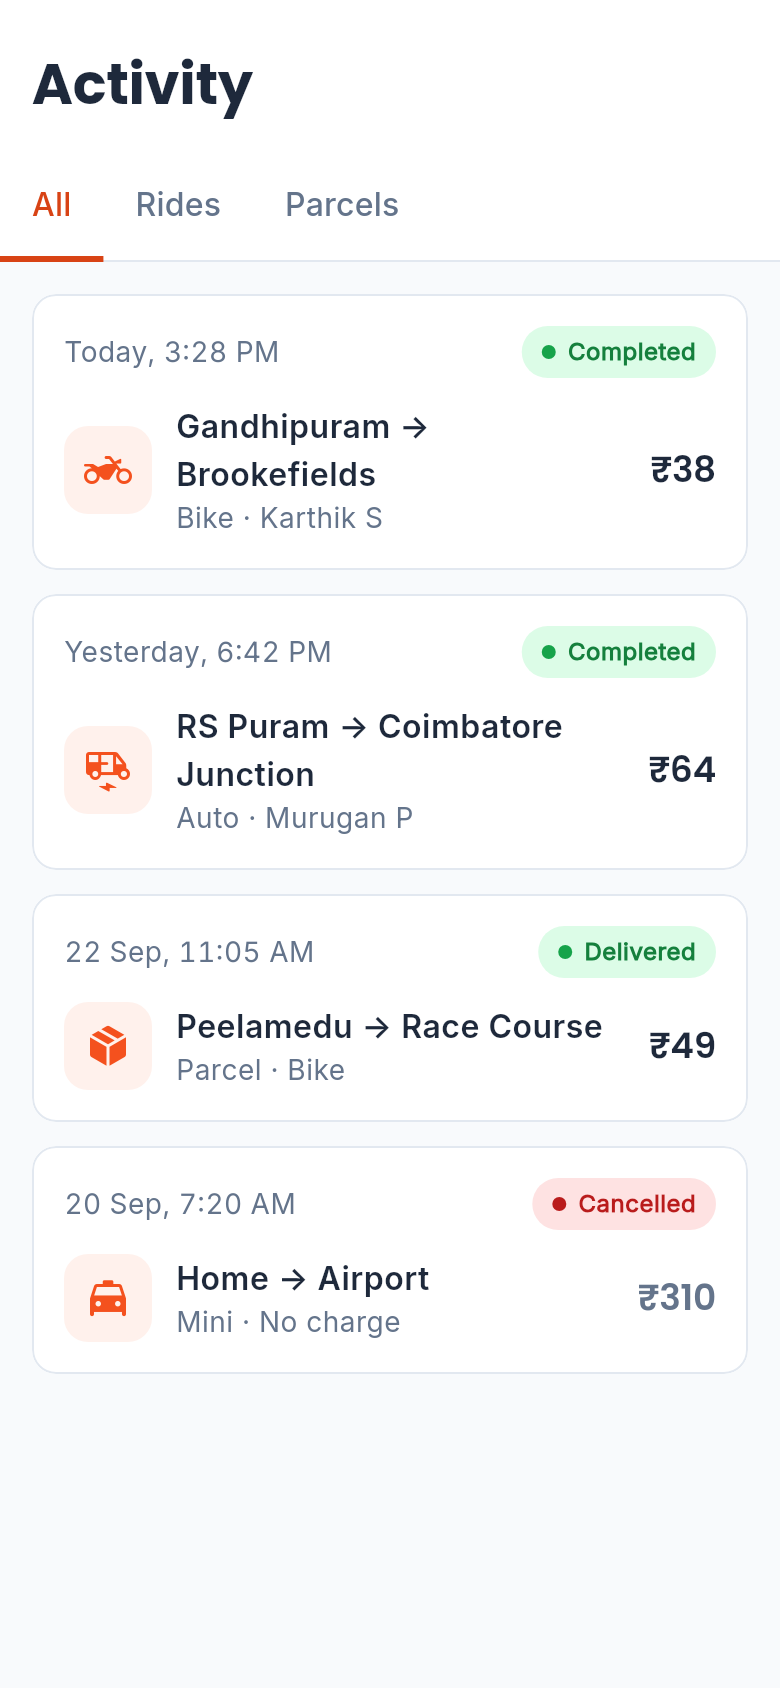
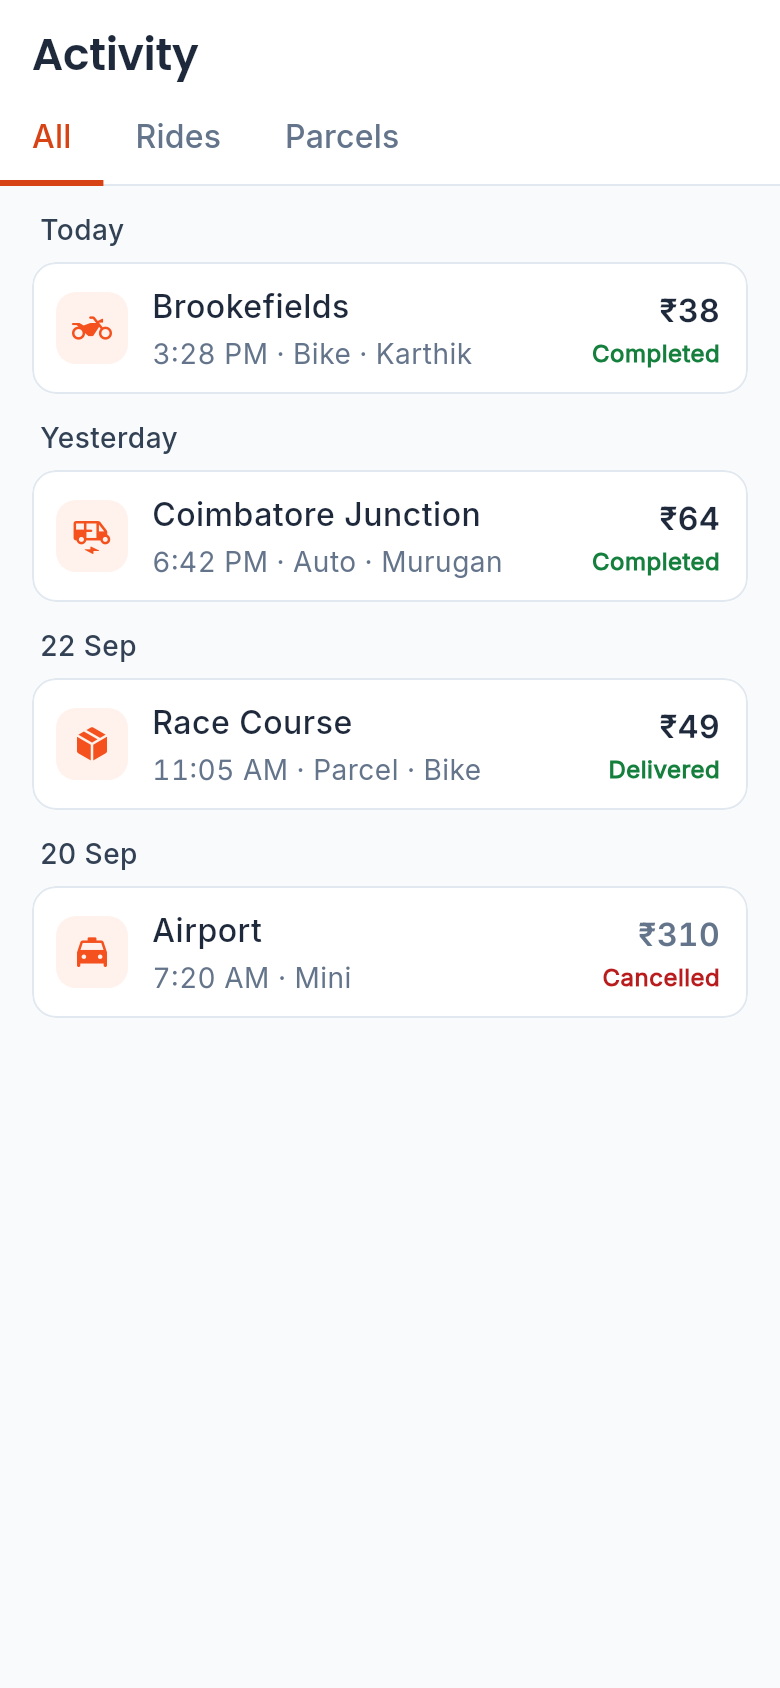
fix(passenger): Activity shows one compact card per trip under day headers
The Activity list put every trip in one big card with tall rows, so a phone
showed only four. Each trip is now its own two-line card (where it went,
the time and vehicle, the fare with its status) under "Today", "Yesterday",
"30 Sep" headers; the header and tabs are tighter. TripHistoryRow /
TripRowsGroup live in activity/widgets/trip_rows.dart so the parcel home's
Recent list can share them.

Trip details (P-22) fits its map to the route instead of guessing a zoom
from the distance, which cut the pins off at the card's edges.

diff --git a/apps/passenger/lib/features/activity/widgets/trip_rows.dart b/apps/passenger/lib/features/activity/widgets/trip_rows.dart
@@ -1,0 +1,142 @@
+import 'package:flutter/material.dart';
+import 'package:go_router/go_router.dart';
+import 'package:tamiltaxi_data/tamiltaxi_data.dart';
+import 'package:tamiltaxi_ui/tamiltaxi_ui.dart';
+
+import '../../../router/routes.dart';
+
+/// A trip's status for lists and details: the pill / text kind and its word.
+(StatusKind, String) tripStatusOf(Trip trip) => switch (trip.status) {
+      TripStatus.completed => (StatusKind.completed, 'Completed'),
+      TripStatus.delivered => (StatusKind.delivered, 'Delivered'),
+      TripStatus.cancelled => (StatusKind.cancelled, 'Cancelled'),
+      _ => (StatusKind.inProgress, 'In progress'),
+    };
+
+/// One past trip in a list, two lines (~60 dp, so a phone shows ten or more): the icon, where it went (the pickup is
+/// usually "Current location"; P-22 has both), when and with what, and on the right the fare with its status under
+/// it. Tap: trip details (P-22).
+class TripHistoryRow extends StatelessWidget {
+  const TripHistoryRow({super.key, required this.trip, this.timeOnly = false});
+  final Trip trip;
+
+  /// Under a day header: the time alone ("10:23 AM"), not the date.
+  final bool timeOnly;
+
+  static IconData iconOf(Trip trip) =>
+      trip.isShifting ? Symbols.home_rounded : (trip.isParcel ? Symbols.package_2_rounded : trip.vehicle.icon);
+
+  @override
+  Widget build(BuildContext context) {
+    final t = context.type;
+    final (kind, label) = tripStatusOf(trip);
+    final cancelled = trip.status == TripStatus.cancelled;
+    final what = trip.isShifting
+        ? 'Packers & Movers'
+        : trip.isParcel
+            ? 'Parcel · ${trip.vehicle.label}'
+            : '${trip.vehicle.label}${!cancelled && trip.driver != null ? ' · ${trip.driver!.firstName}' : ''}';
+    final statusColor = switch (kind) {
+      StatusKind.completed || StatusKind.delivered => TtColors.successText,
+      StatusKind.cancelled => TtColors.error,
+      _ => TtColors.coral600,
+    };
+    return Semantics(
+      button: true,
+      label: '${trip.fromLabel} to ${trip.toLabel}, ${formatRelativeDay(trip.startedAt, withTime: true)}, '
+          '${formatInr(trip.fare)}, $label. Open trip details',
+      excludeSemantics: true,
+      child: InkWell(
+        onTap: () => context.push(Routes.tripDetails(trip.id)),
+        child: Padding(
+          padding: const EdgeInsets.fromLTRB(12, 10, 14, 10),
+          child: Row(
+            children: [
+              Container(
+                width: 36,
+                height: 36,
+                decoration: const BoxDecoration(color: TtColors.coral50, borderRadius: BorderRadius.all(Radius.circular(10))),
+                child: Icon(iconOf(trip), color: TtColors.coral500, fill: 1, size: 20),
+              ),
+              const SizedBox(width: 12),
+              Expanded(
+                child: Column(
+                  crossAxisAlignment: CrossAxisAlignment.start,
+                  children: [
+                    Text(trip.toLabel,
+                        style: t.bodyMedium.copyWith(fontWeight: FontWeight.w600), maxLines: 1, overflow: TextOverflow.ellipsis),
+                    const SizedBox(height: 2),
+                    Text(
+                      '${timeOnly ? formatTime(trip.startedAt) : formatRelativeDay(trip.startedAt, withTime: true)} · $what',
+                      style: TtTextStyles.tabular(t.bodySmall.copyWith(color: TtColors.navy500)),
+                      maxLines: 1,
+                      overflow: TextOverflow.ellipsis,
+                    ),
+                  ],
+                ),
+              ),
+              const SizedBox(width: 10),
+              Column(
+                crossAxisAlignment: CrossAxisAlignment.end,
+                children: [
+                  Text(
+                    formatInr(trip.fare),
+                    style: TtTextStyles.tabular(t.bodySemibold.copyWith(color: cancelled ? TtColors.navy500 : TtColors.navy900)),
+                  ),
+                  const SizedBox(height: 2),
+                  Text(label, style: t.caption.copyWith(color: statusColor, fontWeight: FontWeight.w600)),
+                ],
+              ),
+            ],
+          ),
+        ),
+      ),
+    );
+  }
+}
+
+/// "Today", "Yesterday", "30 Sep" (and the year when it isn't this one): a day header in a trip list.
+String tripDayLabel(DateTime d, {DateTime? now}) {
+  final today = now == null ? TtClock.today : DateTime(now.year, now.month, now.day);
+  final day = DateTime(d.year, d.month, d.day);
+  final diff = today.difference(day).inDays;
+  if (diff == 0) return 'Today';
+  if (diff == 1) return 'Yesterday';
+  return d.year == today.year ? formatShortDate(d) : formatDate(d);
+}
+
+/// Each trip in its own compact card (8 dp apart). [byDay]: under day headers ("Today", "Yesterday", "30 Sep"),
+/// the cards then showing the time alone.
+class TripRowsGroup extends StatelessWidget {
+  const TripRowsGroup({super.key, required this.trips, this.byDay = false});
+  final List<Trip> trips;
+  final bool byDay;
+
+  Widget _card(Trip trip) => Material(
+        color: TtColors.surface,
+        shape: RoundedRectangleBorder(borderRadius: TtRadii.cardRadius, side: const BorderSide(color: TtColors.divider)),
+        clipBehavior: Clip.antiAlias,
+        child: TripHistoryRow(trip: trip, timeOnly: byDay),
+      );
+
+  @override
+  Widget build(BuildContext context) {
+    final t = context.type;
+    final children = <Widget>[];
+    String? day;
+    for (final trip in trips) {
+      final label = byDay ? tripDayLabel(trip.startedAt) : null;
+      if (label != null && label != day) {
+        day = label;
+        children.add(Padding(
+          padding: EdgeInsets.fromLTRB(4, children.isEmpty ? 0 : 12, 4, 6),
+          child: Semantics(header: true, child: Text(label, style: t.bodySmallMedium.copyWith(color: TtColors.navy700, fontWeight: FontWeight.w600))),
+        ));
+      } else if (children.isNotEmpty) {
+        children.add(const SizedBox(height: 8));
+      }
+      children.add(_card(trip));
+    }
+    return Column(crossAxisAlignment: CrossAxisAlignment.stretch, children: children);
+  }
+}

diff --git a/apps/passenger/lib/features/activity/p21_activity_screen.dart b/apps/passenger/lib/features/activity/p21_activity_screen.dart
@@ -12,6 +12,7 @@ import '../ride/widgets/upcoming_trip_card.dart';
 import '../states/s06_empty_activity_screen.dart';
 import '../states/s07b_activity_skeleton.dart';
 import 'widgets/activity_header.dart';
+import 'widgets/trip_rows.dart';
 
 /// P-21 Activity: All · Rides · Parcels tabs over the trip history (newest first).
 /// Loading shows the S-07b skeleton, no trips shows S-06, offline shows S-04.
@@ -102,100 +103,14 @@ class _TripList extends ConsumerWidget {
       },
       child: ListView(
         physics: const AlwaysScrollableScrollPhysics(),
-        padding: const EdgeInsets.all(16),
+        padding: const EdgeInsets.fromLTRB(16, 12, 16, 16),
         children: [
           if (upcoming.isNotEmpty) ...[
             const UpcomingTripsSection(),
-            if (trips.isNotEmpty) Text('PAST', style: context.type.overline),
-            const SizedBox(height: 8),
+            if (trips.isNotEmpty) ...[Text('PAST', style: context.type.overline), const SizedBox(height: 8)],
           ],
-          for (var i = 0; i < trips.length; i++) ...[
-            if (i > 0) const SizedBox(height: 12),
-            TripHistoryCard(trip: trips[i]),
-          ],
+          if (trips.isNotEmpty) TripRowsGroup(trips: trips, byDay: true),
         ],
-      ),
-    );
-  }
-}
-
-/// One Activity card: date, status pill, vehicle icon, pickup → drop, subtitle and fare.
-class TripHistoryCard extends StatelessWidget {
-  const TripHistoryCard({super.key, required this.trip});
-  final Trip trip;
-
-  static (StatusKind, String) statusOf(Trip trip) => switch (trip.status) {
-        TripStatus.completed => (StatusKind.completed, 'Completed'),
-        TripStatus.delivered => (StatusKind.delivered, 'Delivered'),
-        TripStatus.cancelled => (StatusKind.cancelled, 'Cancelled'),
-        _ => (StatusKind.inProgress, 'In progress'),
-      };
-
-  static IconData iconOf(Trip trip) => trip.isParcel ? Symbols.package_2_rounded : trip.vehicle.icon;
-
-  @override
-  Widget build(BuildContext context) {
-    final t = context.type;
-    final (kind, label) = statusOf(trip);
-    final cancelled = trip.status == TripStatus.cancelled;
-    final subtitle = trip.isParcel
-        ? 'Parcel · ${trip.vehicle.label}'
-        : cancelled
-            ? '${trip.vehicle.label} · No charge'
-            : '${trip.vehicle.label}${trip.driver == null ? '' : ' · ${trip.driver!.name}'}';
-    return Semantics(
-      button: true,
-      label: '${trip.fromLabel} to ${trip.toLabel}, ${formatInr(trip.fare)}, $label. Open trip details',
-      excludeSemantics: true,
-      child: TtCard(
-        onTap: () => context.push(Routes.tripDetails(trip.id)),
-        child: Column(
-          crossAxisAlignment: CrossAxisAlignment.start,
-          children: [
-            Row(
-              children: [
-                Expanded(
-                  child: Text(
-                    formatRelativeDay(trip.startedAt, withTime: true),
-                    style: TtTextStyles.tabular(t.bodySmall.copyWith(color: TtColors.navy500)),
-                  ),
-                ),
-                StatusPill(kind, label: label),
-              ],
-            ),
-            const SizedBox(height: 12),
-            Row(
-              children: [
-                Container(
-                  width: 44,
-                  height: 44,
-                  decoration: const BoxDecoration(color: TtColors.coral50, borderRadius: TtRadii.cardRadius),
-                  child: Icon(iconOf(trip), color: TtColors.coral500, fill: 1),
-                ),
-                const SizedBox(width: 12),
-                Expanded(
-                  child: Column(
-                    crossAxisAlignment: CrossAxisAlignment.start,
-                    children: [
-                      Text('${trip.fromLabel} → ${trip.toLabel}', style: t.bodySemibold, maxLines: 2),
-                      Text(subtitle,
-                          style: t.bodySmall.copyWith(color: TtColors.navy500),
-                          maxLines: 1,
-                          overflow: TextOverflow.ellipsis),
-                    ],
-                  ),
-                ),
-                const SizedBox(width: 8),
-                Text(
-                  formatInr(trip.fare),
-                  style: TtTextStyles.tabular(
-                    t.h2.copyWith(color: cancelled ? TtColors.navy500 : TtColors.navy900),
-                  ),
-                ),
-              ],
-            ),
-          ],
-        ),
       ),
     );
   }

diff --git a/apps/passenger/lib/features/activity/p22_trip_details_screen.dart b/apps/passenger/lib/features/activity/p22_trip_details_screen.dart
@@ -8,7 +8,7 @@ import 'package:tamiltaxi_ui/tamiltaxi_ui.dart';
 import '../../common/launch.dart';
 import '../../router/routes.dart';
 import '../../state/passenger_session.dart';
-import 'p21_activity_screen.dart';
+import 'widgets/trip_rows.dart';
 
 /// P-22 Trip details: static route map, date and status, pickup/drop times, driver, fare
 /// breakdown (every line adds up to the fare), trip ID, "Get help with this trip" and "Download receipt".
@@ -96,7 +96,7 @@ class _Details extends StatelessWidget {
   @override
   Widget build(BuildContext context) {
     final t = context.type;
-    final (kind, label) = TripHistoryCard.statusOf(trip);
+    final (kind, label) = tripStatusOf(trip);
     final cancelled = trip.status == TripStatus.cancelled;
     final route = roadPath(trip.pickup.location, trip.drop.location, mode: travelModeFor(trip.vehicle));
     final end = trip.startedAt.add(Duration(minutes: trip.durationMin));
@@ -121,8 +121,10 @@ class _Details extends StatelessWidget {
                 pickup: trip.pickup.location,
                 drop: trip.drop.location,
                 route: route,
-                center: route[route.length ~/ 2],
-                zoom: switch (trip.distanceKm) { < 3 => 14.8, < 6 => 14.0, < 10 => 13.2, _ => 12.3 },
+                // Fit the whole route with room for the drop pin (drawn above its point) and the pickup dot; a zoom
+                // guessed from the distance cut them off at the card's edges.
+                fitPoints: route,
+                fitPadding: const EdgeInsets.fromLTRB(32, 48, 32, 20),
                 showAttribution: false,
               ),
             ),

diff --git a/apps/passenger/lib/features/activity/widgets/activity_header.dart b/apps/passenger/lib/features/activity/widgets/activity_header.dart
@@ -23,8 +23,8 @@ class ActivityHeader extends StatelessWidget {
             crossAxisAlignment: CrossAxisAlignment.start,
             children: [
               Padding(
-                padding: const EdgeInsets.fromLTRB(16, 24, 16, 16),
-                child: Semantics(header: true, child: Text('Activity', style: context.type.display)),
+                padding: const EdgeInsets.fromLTRB(16, 12, 16, 4),
+                child: Semantics(header: true, child: Text('Activity', style: context.type.h1)),
               ),
               TabBar(
                 controller: controller,
@@ -35,7 +35,7 @@ class ActivityHeader extends StatelessWidget {
                 labelStyle: context.type.bodyMedium.copyWith(fontWeight: FontWeight.w600),
                 unselectedLabelStyle: context.type.bodyMedium,
                 labelPadding: const EdgeInsets.symmetric(horizontal: 16),
-                tabs: [for (final t in activityTabs) Tab(height: 52, text: t)],
+                tabs: [for (final t in activityTabs) Tab(height: 44, text: t)],
               ),
             ],
           ),
